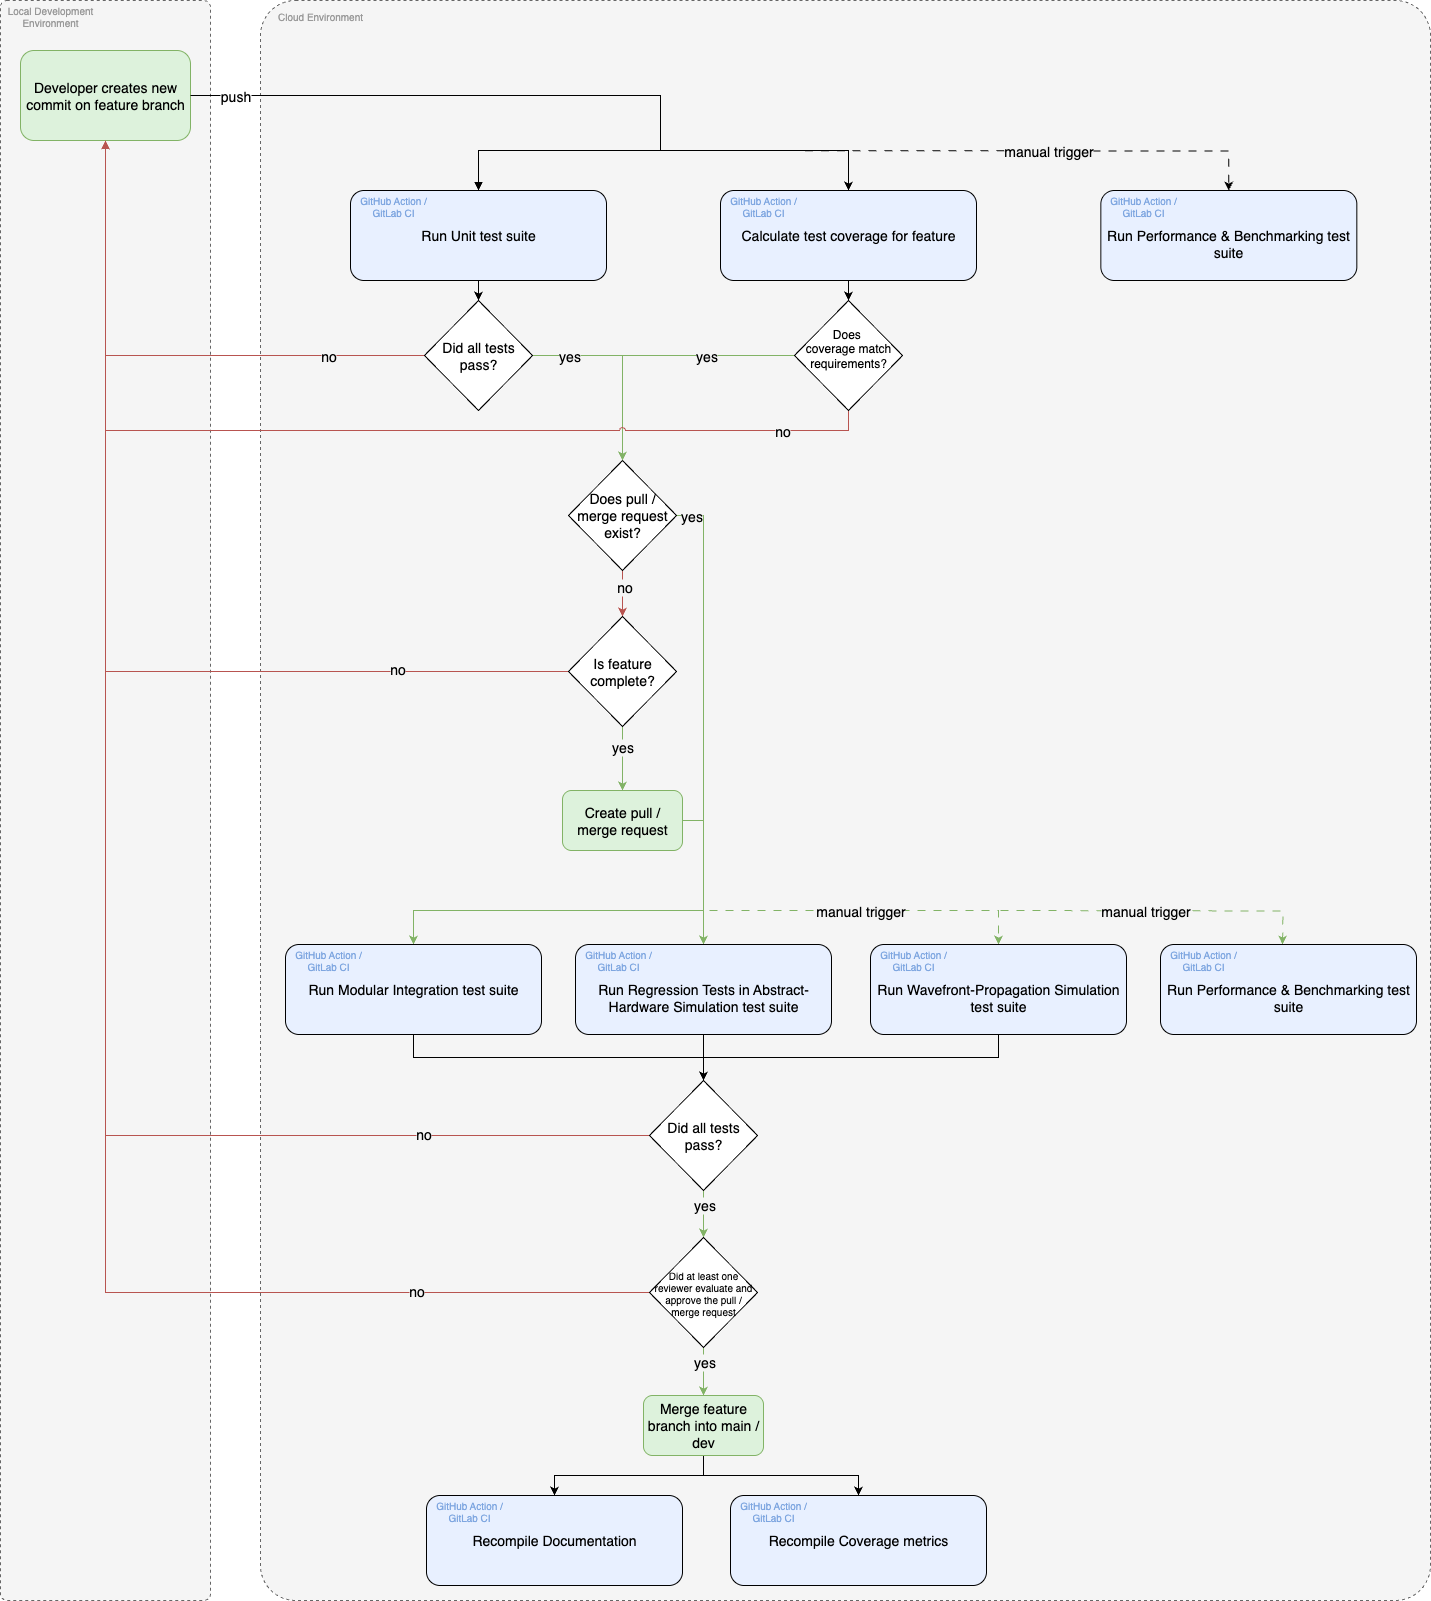
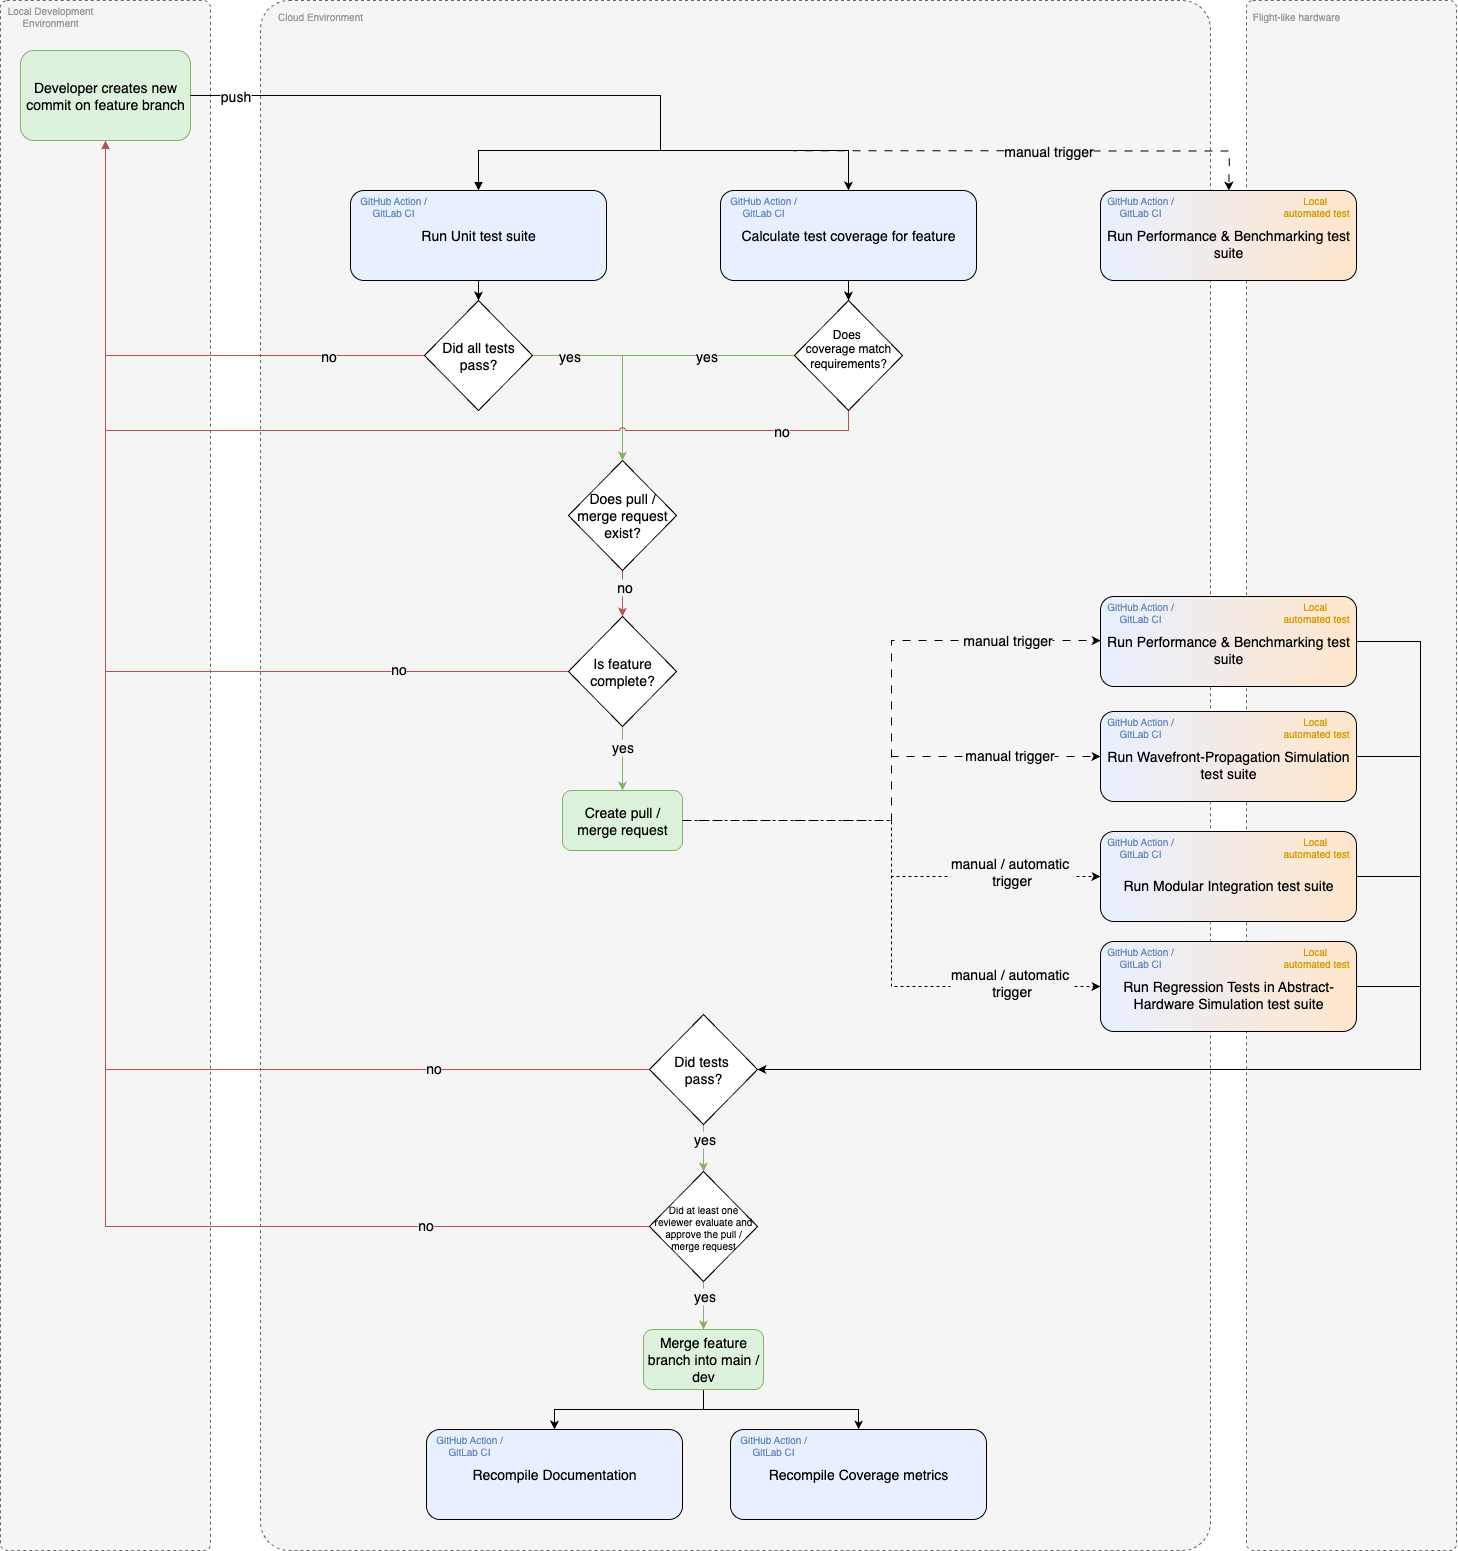
Updated CI-diagram to reflect unknowns in running of test suites.
Updated wording for ground-copy of system.
Added coverage link.

diff --git a/source/testing_strategy.rst b/source/testing_strategy.rst
@@ -69,7 +69,7 @@ Scientific algorithms are exercised against abstract-hardware models. This will 
 Ground-Copy System Testing
 ~~~~~~~~~~~~~~~~~~~~~~~~~~~
 
-A complete physical replica of flight software and hardware interfaces, network-isolated from live systems, supports on-site troubleshooting.
+A complete physical replica of flight software and hardware interfaces, network-isolated from live systems. Before start of mission it is used to test and validate hardware testing to validate a flight-like observation sequence with a telescope simulator and ground-segment simulator. Subsequently it supports on-site troubleshooting of operations.
 
 Test Environments and Infrastructure
 -------------------------------------
@@ -87,4 +87,4 @@ The figure below summarizes the full CI and testing workflow, from a developer p
 
    Continuous Integration and Testing workflow
 
-2. A physical ground-copy hardware unit enables hands-on validation and troubleshooting of mission operations.
+2. A physical ground-copy hardware unit enables hardware testing and validation of a flight-like observation sequence with a telescope simulator and ground-segment simulator, as well as troubleshooting of mission operations.

diff --git a/source/C++/testing.rst b/source/C++/testing.rst
@@ -161,7 +161,7 @@ Example (with dummy build and test commands):
     genhtml coverage_filtered.info --output-directory coverage_report --title "Coverage Report"
 
 This can be automated via a GitHub Action that outputs the generated HTML report as an artifact and / or publishes it to a server.
-The frequency of running coverage reports can be adjusted based on the repo's needs, 
+The frequency of running coverage reports can be adjusted based on the repository's needs, 
 but a common approach is to run it on every pull request to the main branch.
 
 External code review tools (e.g. Codacy) can directly consume the ``.info`` file to display coverage metrics alongside code quality analysis, 
@@ -191,3 +191,5 @@ The generated HTML site provides:
 - Drill-down to header line-level views showing which lines are covered and which are not.
 
 The report makes it easy to monitor and address blind-spots in testing.
+
+As an example, the report for the MagAOX repository can be found here: https://magao-x.org/docs/coverage/.
